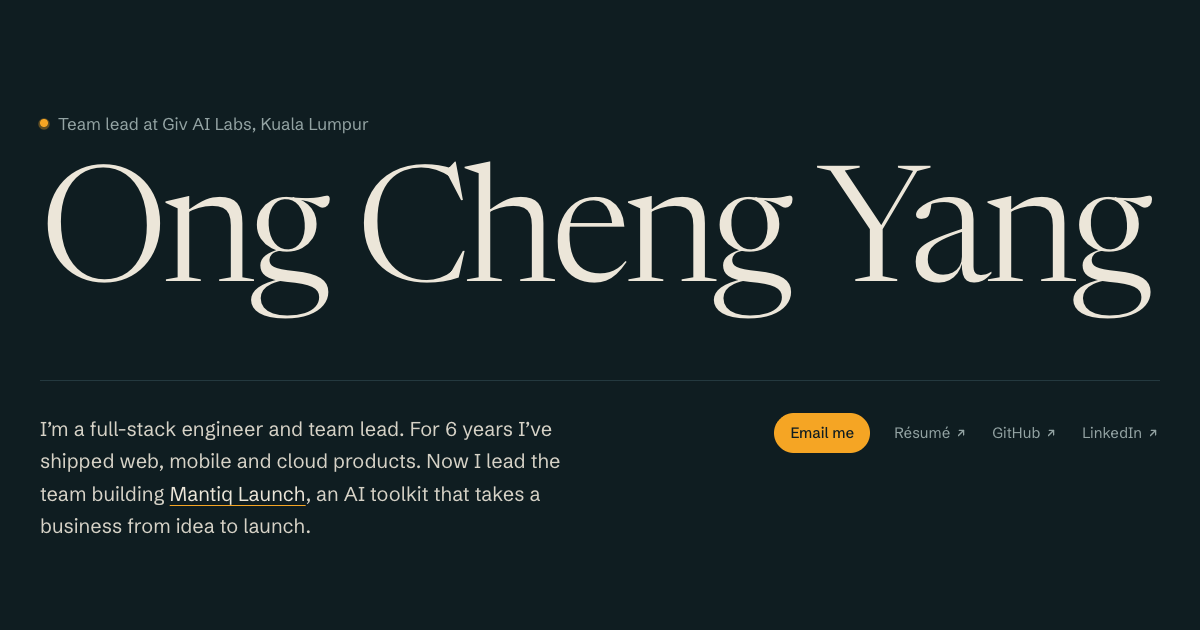
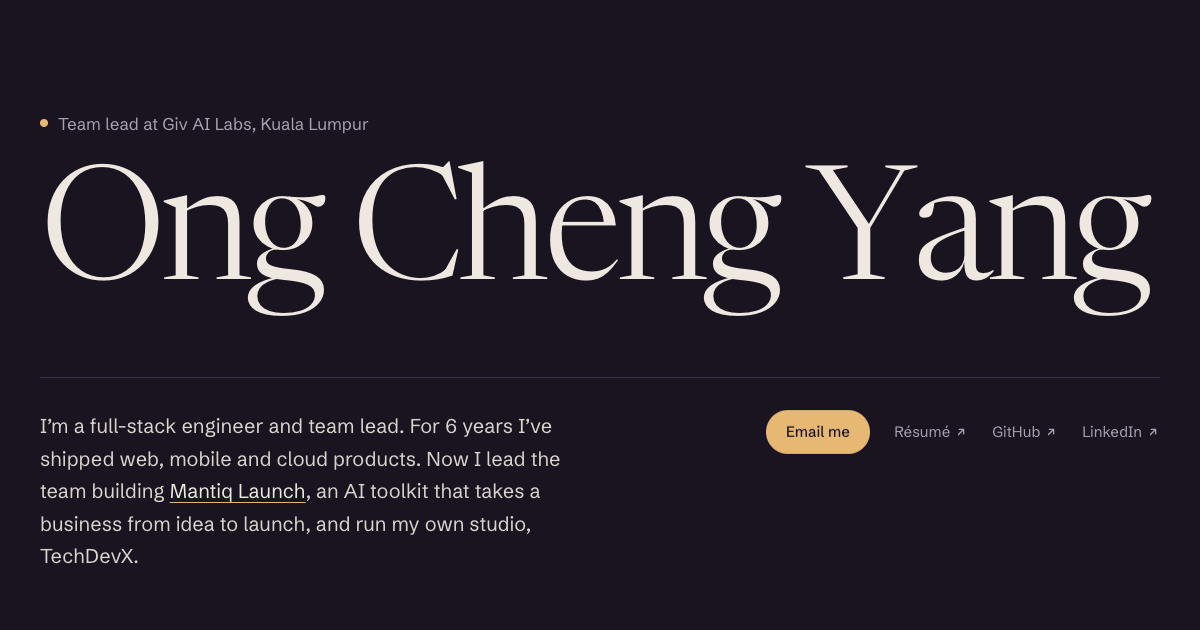
Switch palette to aubergine + champagne; name tokens by role
- Tokens renamed harbour/sodium -> ink/accent, plus a glow token
- Identity diagram and phone backdrop use tokens, not literal hex
- Regenerate share image in the new palette

diff --git a/src/components/identity-diagram.tsx b/src/components/identity-diagram.tsx
@@ -81,7 +81,10 @@ export function IdentityDiagram() {
   const active = new Set(identitySteps[step].edges);
 
   return (
-    <div ref={root} className="relative size-full bg-[radial-gradient(ellipse_at_50%_40%,#1a3138_0%,#132429_70%)]">
+    <div
+      ref={root}
+      className="relative size-full bg-[radial-gradient(ellipse_at_50%_40%,var(--color-raised)_0%,var(--color-ink)_70%)]"
+    >
       <svg
         viewBox="0 0 1600 1000"
         role="img"
@@ -96,15 +99,13 @@ export function IdentityDiagram() {
           width="540"
           height="520"
           rx="24"
-          fill="none"
-          stroke="#f5a524"
-          strokeOpacity="0.35"
           strokeDasharray="6 8"
+          className="fill-none stroke-accent/35"
         />
-        <text x="558" y="195" fill="#f5a524" fontSize="24">
+        <text x="558" y="195" fontSize="24" className="fill-accent">
           auth.techdevx.com
         </text>
-        <text x="1042" y="195" fill="#93a3a3" fontSize="20" textAnchor="end">
+        <text x="1042" y="195" fontSize="20" textAnchor="end" className="fill-fog">
           Caddy, TLS per org
         </text>
 
@@ -115,11 +116,9 @@ export function IdentityDiagram() {
               paths.current[id] = el;
             }}
             d={d}
-            fill="none"
-            stroke={active.has(id) ? "#f5a524" : "#2c454c"}
             strokeWidth={active.has(id) ? 3 : 2}
             strokeDasharray={active.has(id) ? "10 8" : undefined}
-            className={active.has(id) ? "diagram-flow" : undefined}
+            className={`fill-none ${active.has(id) ? "diagram-flow stroke-accent" : "stroke-fog/30"}`}
             style={{ transition: "stroke 400ms ease" }}
           />
         ))}
@@ -132,16 +131,14 @@ export function IdentityDiagram() {
               width={node.w}
               height={node.h}
               rx="18"
-              fill="#0f1d21"
-              stroke={node.id === "server" ? "#f5a524" : "#2c454c"}
-              strokeOpacity={node.id === "server" ? 0.8 : 1}
               strokeWidth="2"
               strokeDasharray={node.dashed ? "6 8" : undefined}
+              className={`fill-ink ${node.id === "server" ? "stroke-accent/80" : "stroke-fog/30"}`}
             />
-            <text x={node.x + 28} y={node.y + node.h / 2 - 6} fill="#ece6d9" fontSize="30">
+            <text x={node.x + 28} y={node.y + node.h / 2 - 6} fontSize="30" className="fill-paper">
               {node.title}
             </text>
-            <text x={node.x + 28} y={node.y + node.h / 2 + 30} fill="#93a3a3" fontSize="22">
+            <text x={node.x + 28} y={node.y + node.h / 2 + 30} fontSize="22" className="fill-fog">
               {node.sub}
             </text>
           </g>
@@ -154,15 +151,15 @@ export function IdentityDiagram() {
               packets.current[id] = el;
             }}
             r="9"
-            fill="#f5a524"
             opacity="0"
-            style={{ filter: "drop-shadow(0 0 8px rgb(245 165 36 / 0.8))" }}
+            className="fill-accent"
+            style={{ filter: "drop-shadow(0 0 8px color-mix(in srgb, var(--color-accent) 80%, transparent))" }}
           />
         ))}
       </svg>
 
       <div className="absolute inset-x-0 bottom-0 flex items-center gap-4 px-[4%] pb-[3.5%] text-[clamp(0.7rem,1.1vw,1rem)]">
-        <span className="shrink-0 text-sodium tnum">
+        <span className="shrink-0 text-accent tnum">
           {step + 1} / {identitySteps.length}
         </span>
         <p key={step} className="diagram-caption text-paper/90">

diff --git a/src/app/page.tsx b/src/app/page.tsx
@@ -20,7 +20,7 @@ export default function Home() {
     <PageTransition>
       <a
         href="#work"
-        className="sr-only focus:not-sr-only focus:fixed focus:top-3 focus:left-3 focus:z-[60] focus:rounded focus:bg-sodium focus:px-3 focus:py-2 focus:text-harbour"
+        className="sr-only focus:not-sr-only focus:fixed focus:top-3 focus:left-3 focus:z-[60] focus:rounded focus:bg-accent focus:px-3 focus:py-2 focus:text-ink"
       >
         Skip to work
       </a>
@@ -49,7 +49,7 @@ export default function Home() {
                   <div key={project.title} data-reveal className="max-w-[34rem]">
                     {project.metric && (
                       <p className="mb-4 flex items-baseline gap-3 border-b border-line pb-4">
-                        <span className="font-serif text-[clamp(2.75rem,5vw,4rem)] leading-none font-[340] tracking-[-0.03em] text-sodium">
+                        <span className="font-serif text-[clamp(2.75rem,5vw,4rem)] leading-none font-[340] tracking-[-0.03em] text-accent">
                           {project.metric.value}
                         </span>
                         <span className="text-fog">{project.metric.label}</span>
@@ -71,7 +71,7 @@ export default function Home() {
                         href={project.link.href}
                         target="_blank"
                         rel="noreferrer"
-                        className="group mt-4 inline-flex items-center gap-1 border-b border-sodium/60 pb-0.5 text-paper transition-colors hover:border-sodium hover:text-sodium"
+                        className="group mt-4 inline-flex items-center gap-1 border-b border-accent/60 pb-0.5 text-paper transition-colors hover:border-accent hover:text-accent"
                       >
                         <RollText>{project.link.label}</RollText>
                         <ArrowUpRight className="size-3.5" />

diff --git a/src/components/hero.tsx b/src/components/hero.tsx
@@ -61,8 +61,8 @@ export function Hero() {
         <p data-intro className="text-fog">
           <span data-intro-fade className="flex items-center gap-2.5">
             <span aria-hidden className="relative flex size-2">
-              <span className="absolute inset-0 animate-ping rounded-full bg-sodium/60 [animation-duration:2.4s]" />
-              <span className="relative size-2 rounded-full bg-sodium" />
+              <span className="absolute inset-0 animate-ping rounded-full bg-accent/60 [animation-duration:2.4s]" />
+              <span className="relative size-2 rounded-full bg-accent" />
             </span>
             {profile.current.title} at {profile.current.company}, {profile.location.split(",")[0]}
           </span>
@@ -100,7 +100,7 @@ export function Hero() {
               products. Now I lead the team building{" "}
               <a
                 href="#work"
-                className="text-paper underline decoration-sodium decoration-1 underline-offset-4 hover:decoration-2"
+                className="text-paper underline decoration-accent decoration-1 underline-offset-4 hover:decoration-2"
               >
                 Mantiq Launch
               </a>
@@ -114,7 +114,7 @@ export function Hero() {
                 <Magnetic>
                   <a
                     href={`mailto:${profile.email}`}
-                    className="group block rounded-full bg-sodium px-5 py-2.5 font-medium text-harbour"
+                    className="group block rounded-full bg-accent px-5 py-2.5 font-medium text-ink"
                   >
                     <RollText>Email me</RollText>
                   </a>

diff --git a/src/app/work/[slug]/page.tsx b/src/app/work/[slug]/page.tsx
@@ -106,7 +106,7 @@ export default async function CaseStudyPage({ params }: PageProps<"/work/[slug]"
                     data-reveal
                     className="grid grid-cols-[3rem_1fr] border-t border-line py-5 text-lg text-paper/90 last:border-b md:text-xl"
                   >
-                    <span className="text-sm text-sodium tnum">{pad(i + 1)}</span>
+                    <span className="text-sm text-accent tnum">{pad(i + 1)}</span>
                     {step.text}
                   </li>
                 ))}
@@ -155,7 +155,7 @@ export default async function CaseStudyPage({ params }: PageProps<"/work/[slug]"
               href={project.link.href}
               target="_blank"
               rel="noreferrer"
-              className="group inline-flex items-center gap-1.5 border-b border-sodium/60 pb-0.5 text-lg transition-colors hover:border-sodium hover:text-sodium"
+              className="group inline-flex items-center gap-1.5 border-b border-accent/60 pb-0.5 text-lg transition-colors hover:border-accent hover:text-accent"
             >
               <RollText>{project.link.label}</RollText>
               <ArrowUpRight className="size-4" />

diff --git a/src/app/globals.css b/src/app/globals.css
@@ -1,12 +1,14 @@
 @import "tailwindcss";
 
 @theme {
-  --color-harbour: #0f1d21;
-  --color-raised: #152a30;
-  --color-line: #24393f;
-  --color-paper: #ece6d9;
-  --color-fog: #93a3a3;
-  --color-sodium: #f5a524;
+  /* Aubergine + champagne */
+  --color-ink: #1a1420;
+  --color-raised: #251c2c;
+  --color-line: #3a2f44;
+  --color-glow: #3a2c45;
+  --color-paper: #efe8e1;
+  --color-fog: #aa9fae;
+  --color-accent: #e6b874;
 
   --font-serif: var(--font-newsreader), Georgia, serif;
   --font-sans: var(--font-schibsted), ui-sans-serif, system-ui, sans-serif;
@@ -16,7 +18,7 @@
 
 @layer base {
   html {
-    background: var(--color-harbour);
+    background: var(--color-ink);
     color: var(--color-paper);
     scroll-padding-top: 5rem;
     -webkit-text-size-adjust: 100%;
@@ -30,12 +32,12 @@
   }
 
   ::selection {
-    background: var(--color-sodium);
-    color: var(--color-harbour);
+    background: var(--color-accent);
+    color: var(--color-ink);
   }
 
   :focus-visible {
-    outline: 2px solid var(--color-sodium);
+    outline: 2px solid var(--color-accent);
     outline-offset: 3px;
     border-radius: 2px;
   }

diff --git a/src/components/header.tsx b/src/components/header.tsx
@@ -39,7 +39,7 @@ export function Header() {
     <header
       className={`fixed inset-x-0 top-0 z-50 transition-[transform,background-color,border-color] duration-500 ease-out-quint ${
         hidden ? "-translate-y-full" : "translate-y-0"
-      } ${scrolled ? "border-b border-line/70 bg-harbour/80 backdrop-blur-md" : "border-b border-transparent"}`}
+      } ${scrolled ? "border-b border-line/70 bg-ink/80 backdrop-blur-md" : "border-b border-transparent"}`}
     >
       <nav
         aria-label="Main"
@@ -65,10 +65,7 @@ export function Header() {
             ))}
           </ul>
           <Magnetic>
-            <Link
-              href={href("contact")}
-              className="group block rounded-full bg-sodium px-4 py-2 font-medium text-harbour"
-            >
+            <Link href={href("contact")} className="group block rounded-full bg-accent px-4 py-2 font-medium text-ink">
               <RollText>Contact</RollText>
             </Link>
           </Magnetic>

diff --git a/src/components/experience.tsx b/src/components/experience.tsx
@@ -23,7 +23,7 @@ export function Experience() {
                 className="absolute inset-x-[-1rem] inset-y-0 -z-10 origin-bottom scale-y-0 rounded-sm bg-raised transition-transform duration-500 ease-out-quint group-hover:scale-y-100 md:inset-x-[-1.5rem]"
               />
               <p className="text-[0.9375rem] text-fog tnum md:col-span-3">
-                {role.start} – {role.end === "Now" ? <span className="text-sodium">Now</span> : role.end}
+                {role.start} – {role.end === "Now" ? <span className="text-accent">Now</span> : role.end}
               </p>
               <div className="transition-transform duration-500 ease-out-quint group-hover:translate-x-2 md:col-span-4">
                 <h3 className="font-serif text-[1.85rem] leading-tight font-[380] tracking-[-0.015em]">

diff --git a/src/components/project-media.tsx b/src/components/project-media.tsx
@@ -33,7 +33,7 @@ export function ProjectMedia({ media, autoPlay = false, videoRef }: Props) {
 
   const [left, middle, right] = media.shots;
   return (
-    <div className="flex size-full items-center justify-center bg-[radial-gradient(ellipse_at_50%_115%,#24414a_0%,#152a30_62%)]">
+    <div className="flex size-full items-center justify-center bg-[radial-gradient(ellipse_at_50%_115%,var(--color-glow)_0%,var(--color-raised)_62%)]">
       <Phone shot={left} className="-mr-[5%] h-[66%] translate-y-[5%] -rotate-[7deg]" />
       <Phone shot={middle} className="relative z-10 h-[78%]" />
       <Phone shot={right} className="-ml-[5%] h-[66%] translate-y-[5%] rotate-[7deg]" />

diff --git a/src/components/case-study/next-project.tsx b/src/components/case-study/next-project.tsx
@@ -16,7 +16,7 @@ export function NextProject({ project }: { project: Project }) {
           <span className="transition-transform duration-700 ease-out-quint group-hover:translate-x-4">
             {project.title}
           </span>
-          <ArrowUpRight className="mb-[0.12em] size-[0.45em] shrink-0 text-sodium transition-transform duration-700 ease-out-quint group-hover:rotate-45" />
+          <ArrowUpRight className="mb-[0.12em] size-[0.45em] shrink-0 text-accent transition-transform duration-700 ease-out-quint group-hover:rotate-45" />
         </p>
         <p className="mt-4 text-fog">
           {project.role}, {project.org}

diff --git a/src/components/contact.tsx b/src/components/contact.tsx
@@ -72,7 +72,7 @@ export function Contact() {
               <a
                 href={`mailto:${profile.email}`}
                 data-cursor="Write"
-                className="mt-6 inline-block border-b-2 border-sodium pb-1 font-serif text-[clamp(1.5rem,3.2vw,2.75rem)] break-all transition-colors hover:text-sodium"
+                className="mt-6 inline-block border-b-2 border-accent pb-1 font-serif text-[clamp(1.5rem,3.2vw,2.75rem)] break-all transition-colors hover:text-accent"
               >
                 {profile.email}
               </a>

diff --git a/src/components/about.tsx b/src/components/about.tsx
@@ -62,7 +62,7 @@ export function About() {
                     <span>
                       <span className="block text-paper/90">{item.title}</span>
                       <span className="block text-[0.9375rem] text-fog">{item.school}</span>
-                      {item.note && <span className="block text-[0.9375rem] text-sodium/90">{item.note}</span>}
+                      {item.note && <span className="block text-[0.9375rem] text-accent/90">{item.note}</span>}
                     </span>
                   </li>
                 ))}

diff --git a/src/components/work-showcase.tsx b/src/components/work-showcase.tsx
@@ -125,7 +125,7 @@ export function WorkShowcase() {
                 ({pad(active + 1)} / {pad(projects.length)})
               </span>
               <span className="relative h-px flex-1 bg-line">
-                <span data-work-progress className="absolute inset-0 origin-left bg-sodium" />
+                <span data-work-progress className="absolute inset-0 origin-left bg-accent" />
               </span>
               <span className="text-paper">{projects[active].title}</span>
             </div>
